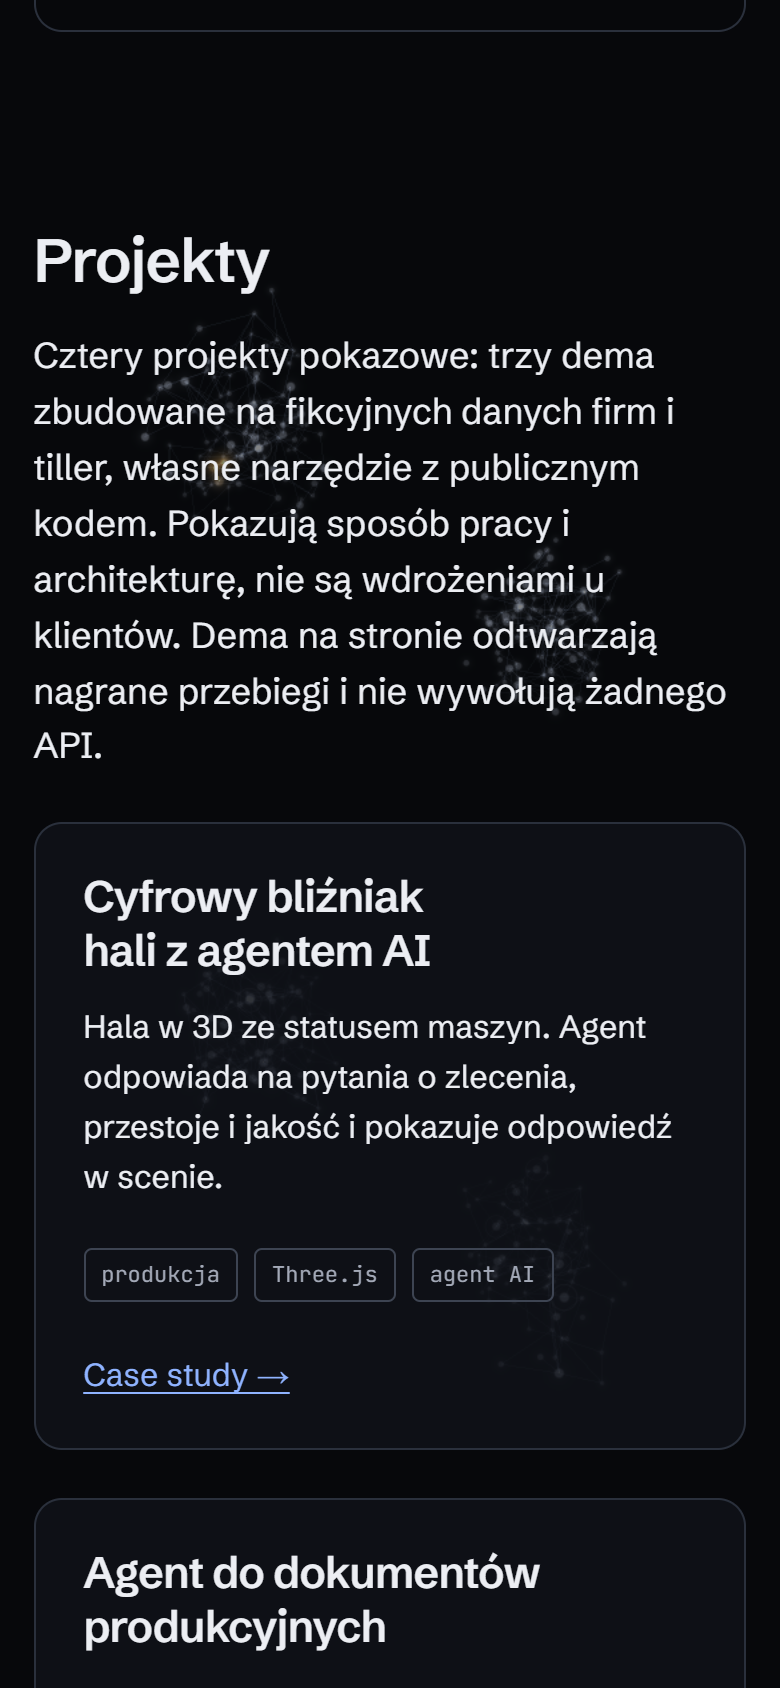
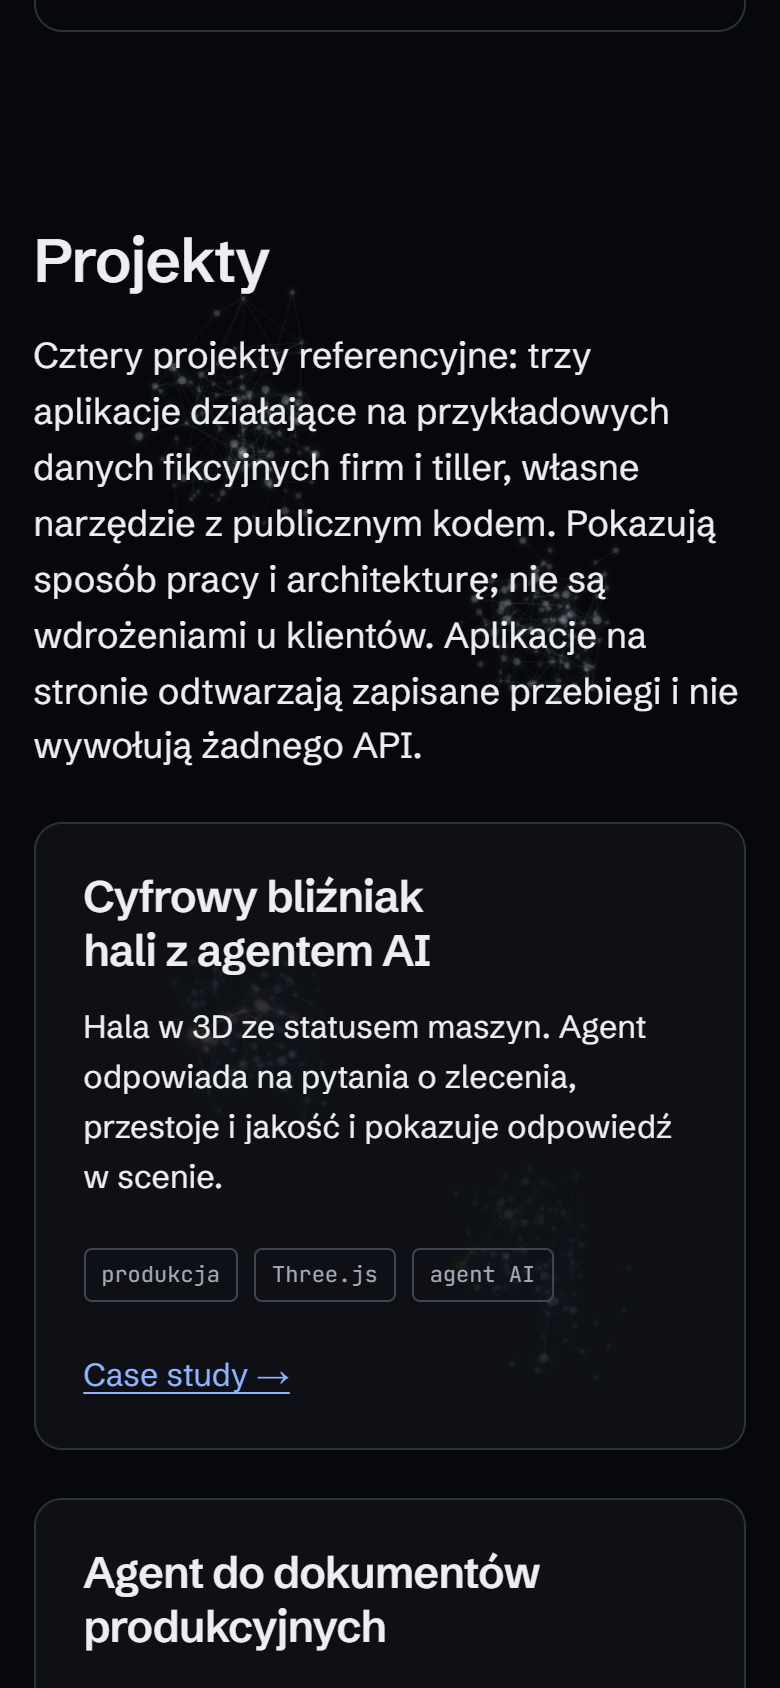
docs: refresh case study screenshots and record the reference application decisions

Changed region(s): [[0.0308, 0.1848, 0.9538, 0.4621]]

diff --git a/docs/decisions/reference-applications.md b/docs/decisions/reference-applications.md
@@ -1,0 +1,42 @@
+# Reference applications and repository conventions — decisions
+
+How the case studies embed the three reference applications, and the repository-wide wording
+and language rules that came with them.
+
+- 2026-10-22 — The applications are built from their public repositories at commits pinned in
+  `tools.lock.json` and the static builds are committed under `public/tools/<slug>/` — the site's
+  build and the Vercel deploy stay offline and deterministic, and a reviewer sees exactly what
+  ships; the cost is about 1.8 MB of generated files, marked `linguist-generated` and `-diff`
+- 2026-10-22 — The iframe is added by `src/embed.ts` when the figure nears the viewport (and also
+  carries `loading="lazy"`), not written into the static HTML — the page stays light for
+  Lighthouse and readers without JavaScript keep a text fallback and a link that opens the
+  application in a new tab
+- 2026-10-22 — `sandbox="allow-scripts allow-same-origin allow-downloads allow-popups"`: without
+  `allow-same-origin` the applications cannot load their own assets; the content is ours and
+  pinned, so the combination is accepted
+- 2026-10-22 — Height reports (`{ type: '<slug>:height', height }`) count only when
+  `event.origin` is the site's own origin and `event.source` is one of the embedded frames;
+  heights between 240 and 20 000 px are applied (Grant Assistant reports about 6 700 px on a
+  phone)
+- 2026-10-22 — Factory Twin posts no height: its frame keeps a 16:10 proportion (at least 34 rem)
+  on wide screens and 90 % of the viewport height on phones; the section also links the
+  application in a new tab for a full-screen view
+- 2026-10-22 — The build guard skips the applications' own pages (`tools/<slug>/` for locked
+  slugs only): their sample data legitimately shows amounts and long numbers, and each
+  application repository runs its own wording check; an unknown directory under `tools/` is
+  still held to the full rules
+- 2026-10-22 — The section that embeds an application is called "Wypróbuj" / "Try it", and the
+  note under it says "Zapisany przebieg" / "Recorded run" — "na żywo" / "live" is the name of
+  the applications' own mode with a real API key, so it is not used for the recorded embed
+- 2026-10-22 — The document template directories are English (`docs-templates/offer/`,
+  `docs-templates/price-quote/`), but the generated PDF names stay Polish (`oferta-pl.pdf`,
+  `oferta-cenowa-szablon-pl.pdf`): they are the documents sent to Polish companies
+- 2026-10-22 — The language rule allows Polish only in the Polish copy and UI strings, the
+  Polish document templates and their data, the brand preview's specimen and test fixtures;
+  elsewhere Polish may appear in string literals (tests assert Polish output) and, in comments
+  and Markdown, only inside backticks or double quotes
+- 2026-10-22 — The wording rule exempts only the guard modules and their own tests, which have
+  to spell out what they look for
+- 2026-10-22 — The external costs of a price quote still have no Dig.IT cost category: which
+  category a cloud or API subscription belongs to is a funding-rules question for the owner, not
+  a code change
